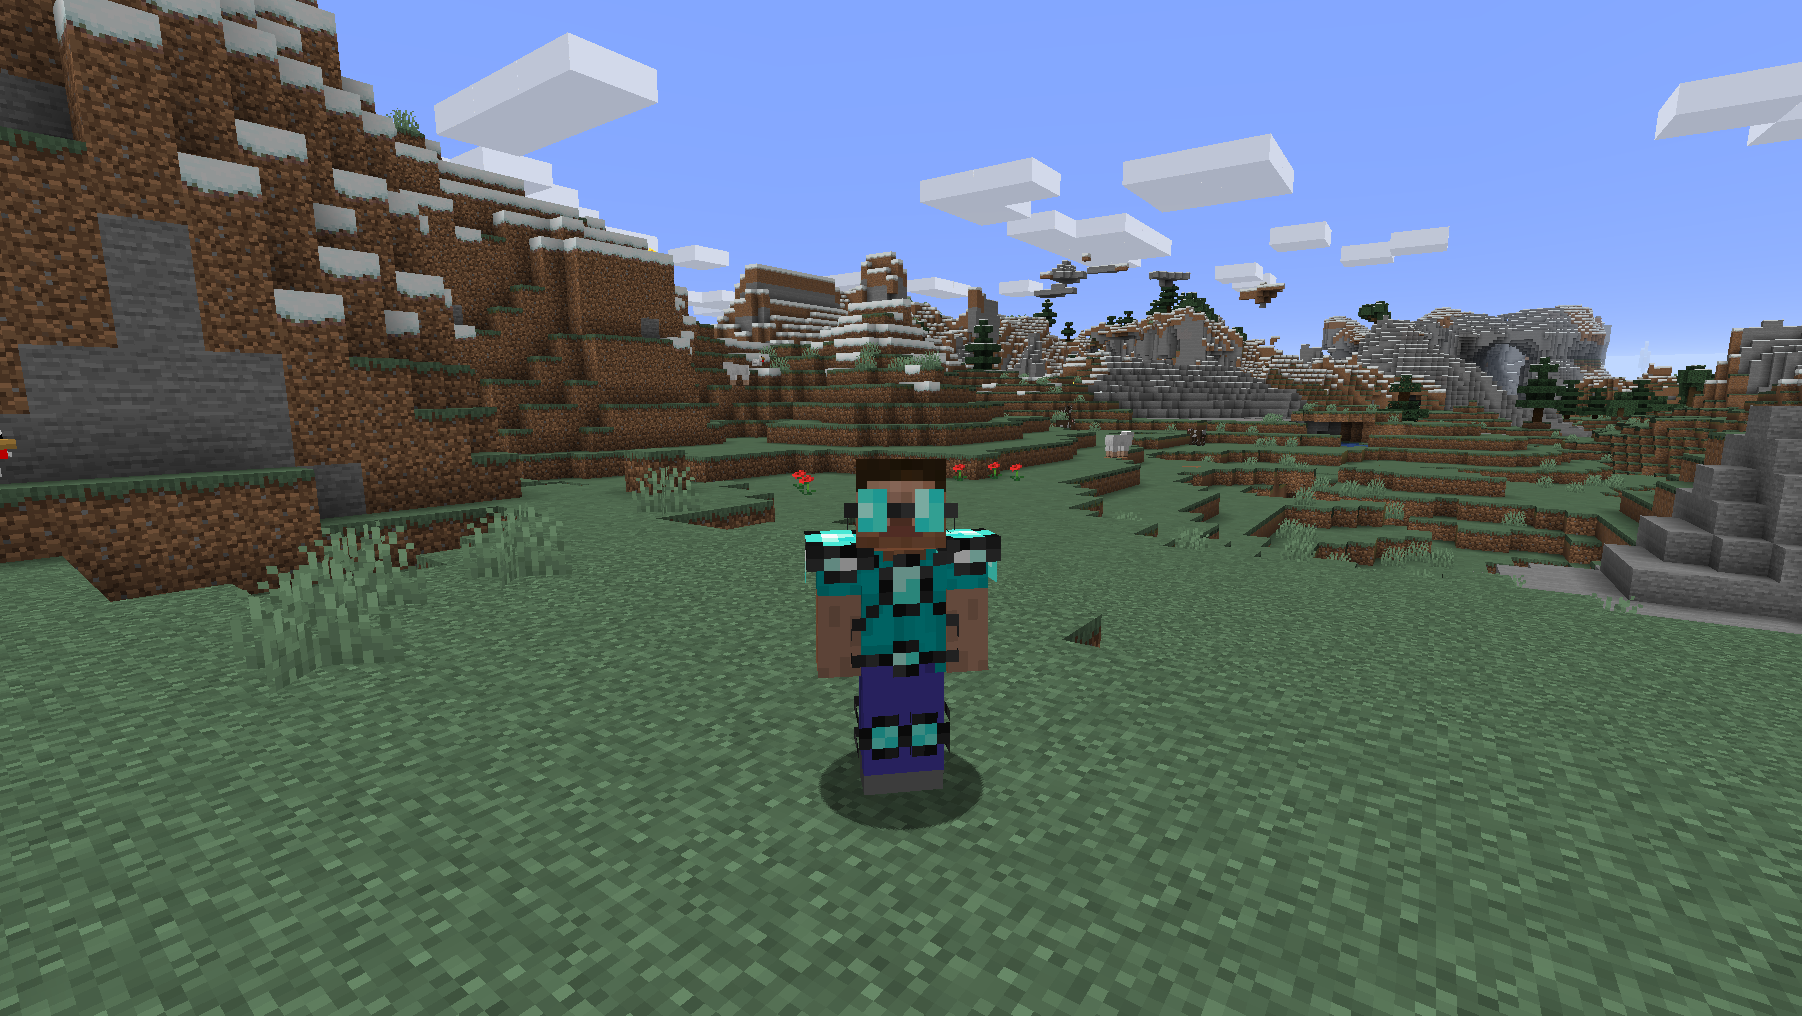
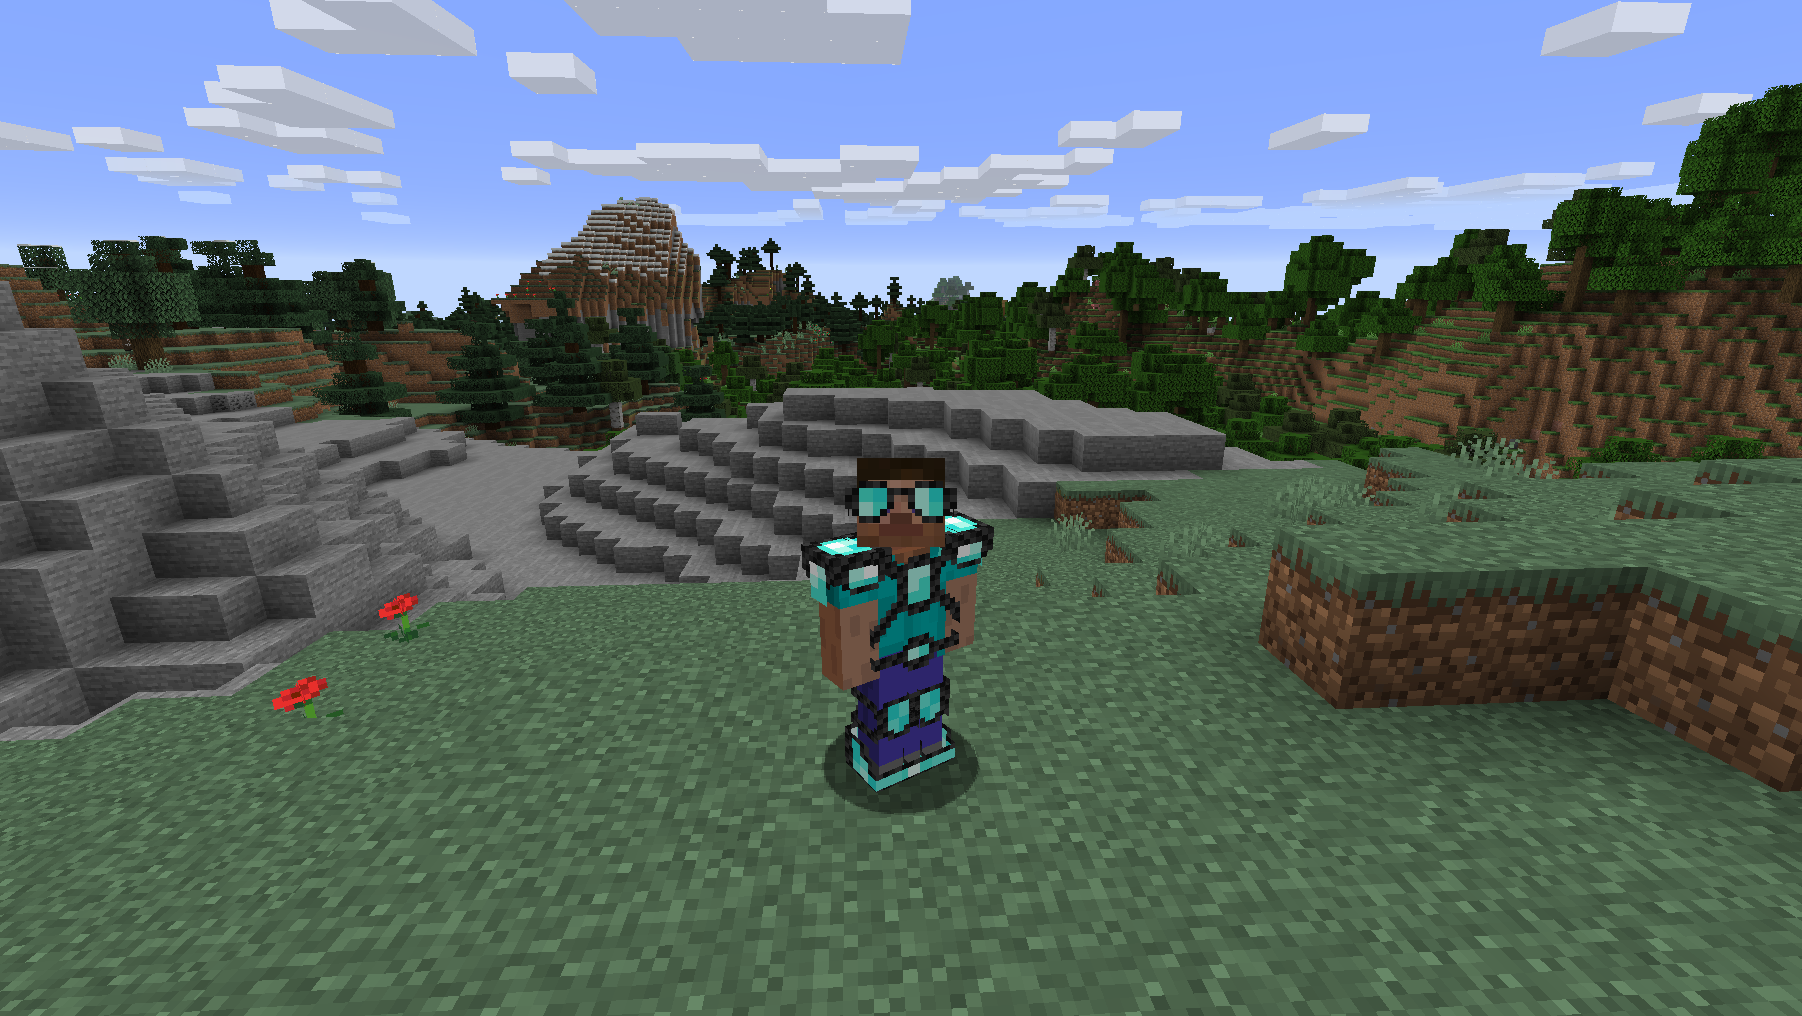
Updated Showcase Images

diff --git a/README.md b/README.md
@@ -9,10 +9,11 @@ Comes with unique textures for all types of armor.
 ---
 # Table of Contents
 
-- [Minimalist Armor Pack](#minimlist-armor-pack)
+- [Minimalist Armor Pack](#minimalist-armor-pack)
 - [Table of Contents](#table-of-contents)
   - [Current Progress](#current-progress)
     - [Diamond Armor](#diamond-armor)
+    - [Gold Armor](#gold-armor)
 - [Contributors](#contributors)
   - [Compresser (`Scripts/compress.py`)](#compresser-scriptscompresspy)
 
@@ -21,15 +22,18 @@ Comes with unique textures for all types of armor.
 
 - [x] Diamond
 - [x] Gold
+- [ ] Netherite
 - [ ] Iron
 - [ ] Leather
-- [ ] Netherite
 - [ ] Piglin Leather
 - [ ] Turtle
 - [ ] Chainmail
 
 ### Diamond Armor
 ![Diamond Armor Showcase](img/Diamond_Armor.png)
+### Gold Armor
+![Golden Armor Showcase](img/Gold_Armor.png)
+
 
 # Contributors
 For the people who wish to add to the project, feel free to use the following tools to help speed up the process.
